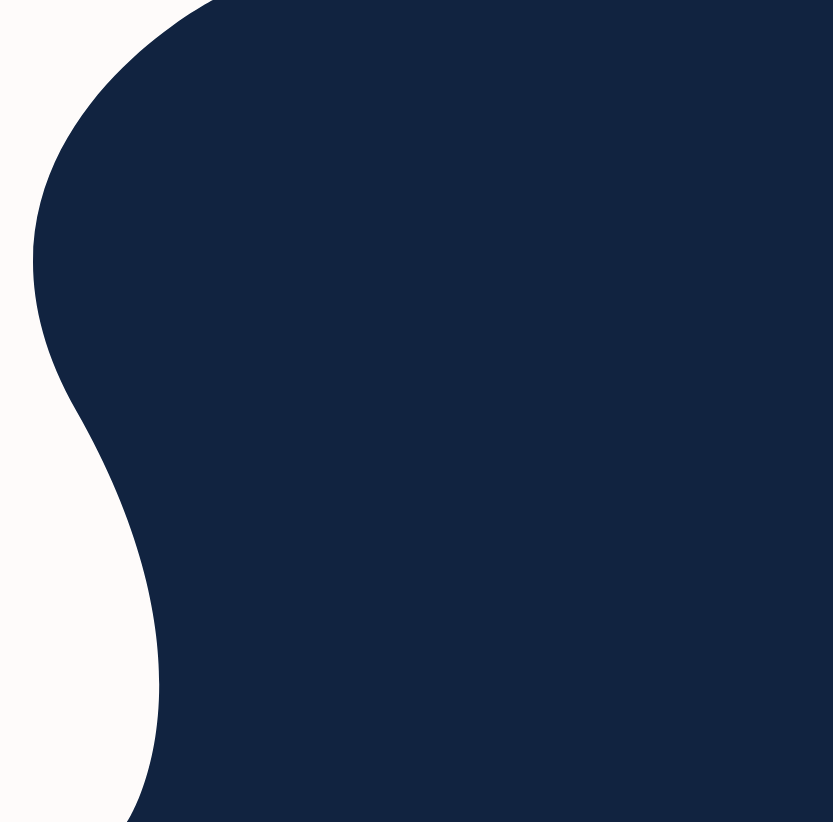
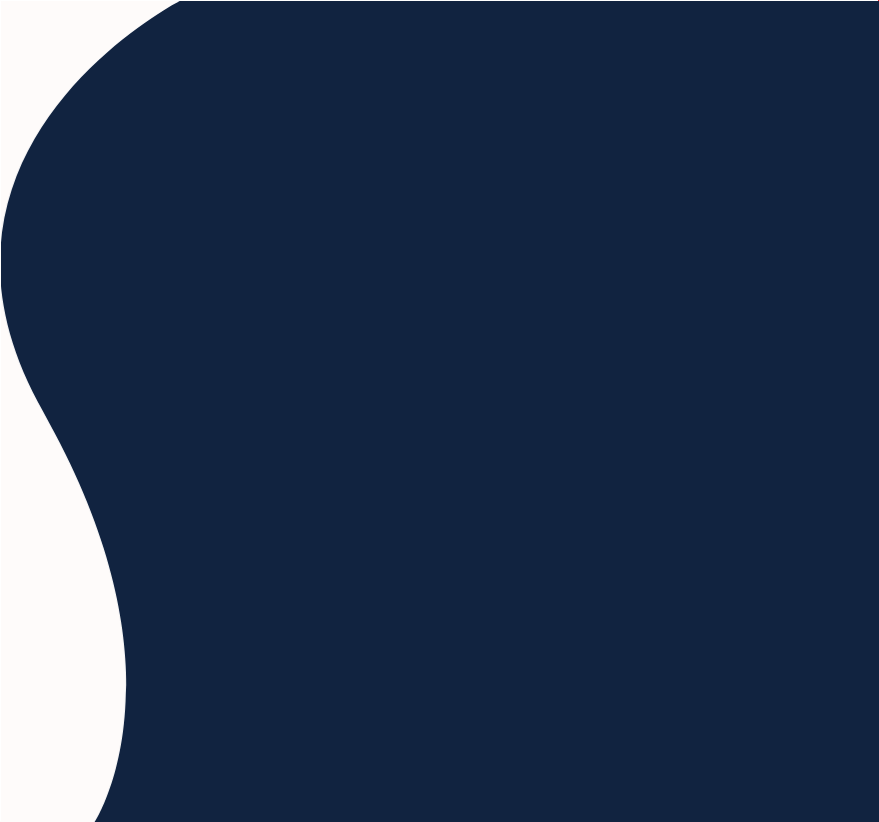
added new layout

Changed region(s): [[0.0, 0.0, 0.2497, 1.0]]

diff --git a/src/components/TheHeader.vue b/src/components/TheHeader.vue
@@ -5,12 +5,12 @@
       <h1>Coffee</h1>
       <h3>Everything You Love About Coffee</h3>
       <p>
-        Lorem ipsum dolor sit amet, consectetur adipisicing elit, sed do <br>
-        eiusmod tempor incididunt ut labore et dolore magna aliqua. <br>
+        Lorem ipsum dolor sit amet, consectetur adipisicing elit, sed do <br />
+        eiusmod tempor incididunt ut labore et dolore magna aliqua. <br />
         Ut enim ad minim veniam.
       </p>
     </div>
-    <Button class="btn-header"/>
+    <Button class="btn-header" />
   </div>
 </template>
 
@@ -20,17 +20,17 @@ import Button from "../components/Button.vue";
 export default {
   components: {
     Navbar,
-    Button
+    Button,
   },
 };
 </script>
 
 <style scoped>
-
 .header {
   width: 100%;
   background-image: url("../../public/img/Background.png");
-  background-size: cover;
+  background-position: 100%;
+  background-repeat: no-repeat;
 }
 
 .header-informations {
@@ -38,33 +38,31 @@ export default {
   margin-left: 4rem;
 }
 
-.header-informations h1{
-font-family: 'Cormorant Upright', serif; 
-font-weight: 100;
-font-style: italic;
-color: #1d2440;
-font-size: 9rem;
-margin-top: 2rem;
+.header-informations h1 {
+  font-family: "Cormorant Upright", serif;
+  font-weight: 100;
+  font-style: italic;
+  color: #1d2440;
+  font-size: 9rem;
 }
 
-.header-informations h3{
-font-family: 'Noto Sans', sans-serif; 
-font-weight: 400;
-color: #FF540E;
-font-size: 2rem;
-margin-top: 3rem;
+.header-informations h3 {
+  font-family: "Noto Sans", sans-serif;
+  font-weight: 400;
+  color: #ff540e;
+  font-size: 2rem;
+  margin-top: 4rem;
 }
 
-.header-informations p{
-font-family: 'Noto Sans', sans-serif; 
-font-weight: 400; 
-color: #1d2440;
-font-size: 0.9rem;
-margin-top: 1.5rem;
+.header-informations p {
+  font-family: "Noto Sans", sans-serif;
+  font-weight: 400;
+  color: #1d2440;
+  font-size: 0.9rem;
+  margin-top: 2rem;
 }
 
 .btn-header {
-  margin: 4rem 4rem;
+  margin: 4rem;
 }
-
 </style>

diff --git a/src/components/Navbar.vue b/src/components/Navbar.vue
@@ -21,14 +21,14 @@ export default {
 };
 </script>
 
-<style scoped>
+<style >
 .navbar {
   display: flex;
   align-items: center;
   justify-content: space-between;
-  padding: 8rem 1.5rem 3rem 4rem;
+  padding: 8rem 1.5rem 6rem 4rem;
   font-family: "Roboto", sans-serif;
-  font-size: 1.7rem;
+  font-size: 1.6rem;
   position: relative;
 }
 
@@ -42,9 +42,9 @@ export default {
   display: flex;
   width: 100px;
   align-items: center;
-  margin-right: 8rem;
-  position: absolute;
-  right: 2.5rem;
+  margin-right: 14%;
+  /* position: absolute;
+  right: 15%; */
 
 }
 

diff --git a/src/components/FirstSection.vue b/src/components/FirstSection.vue
@@ -46,7 +46,9 @@ export default {
   background-color: #fefbfa;
   background-image: url("../../public/img/Shape.png");
   background-repeat: no-repeat;
-  background-position: right;
+  background-position: 100%;
+  background-size: 53%;
+
 }
 
 .first-section-left {

diff --git a/src/components/ThirdSection.vue b/src/components/ThirdSection.vue
@@ -46,7 +46,8 @@ export default {
   background-color: #fefbfa;
   background-image: url("../../public/img/Shape2.png");
   background-repeat: no-repeat;
-  background-position: right;
+  background-position: 100%;
+  background-size: 57%;
 }
 
 .third-section-left {

diff --git a/src/components/SecondSection.vue b/src/components/SecondSection.vue
@@ -46,7 +46,7 @@ export default {
   background-color: #fefbfa;
   background-image: url("../../public/img/Shape1.png");
   background-repeat: no-repeat;
-  background-position: left;
+  background-size: 53%;
 }
 
 .second-section-left {
